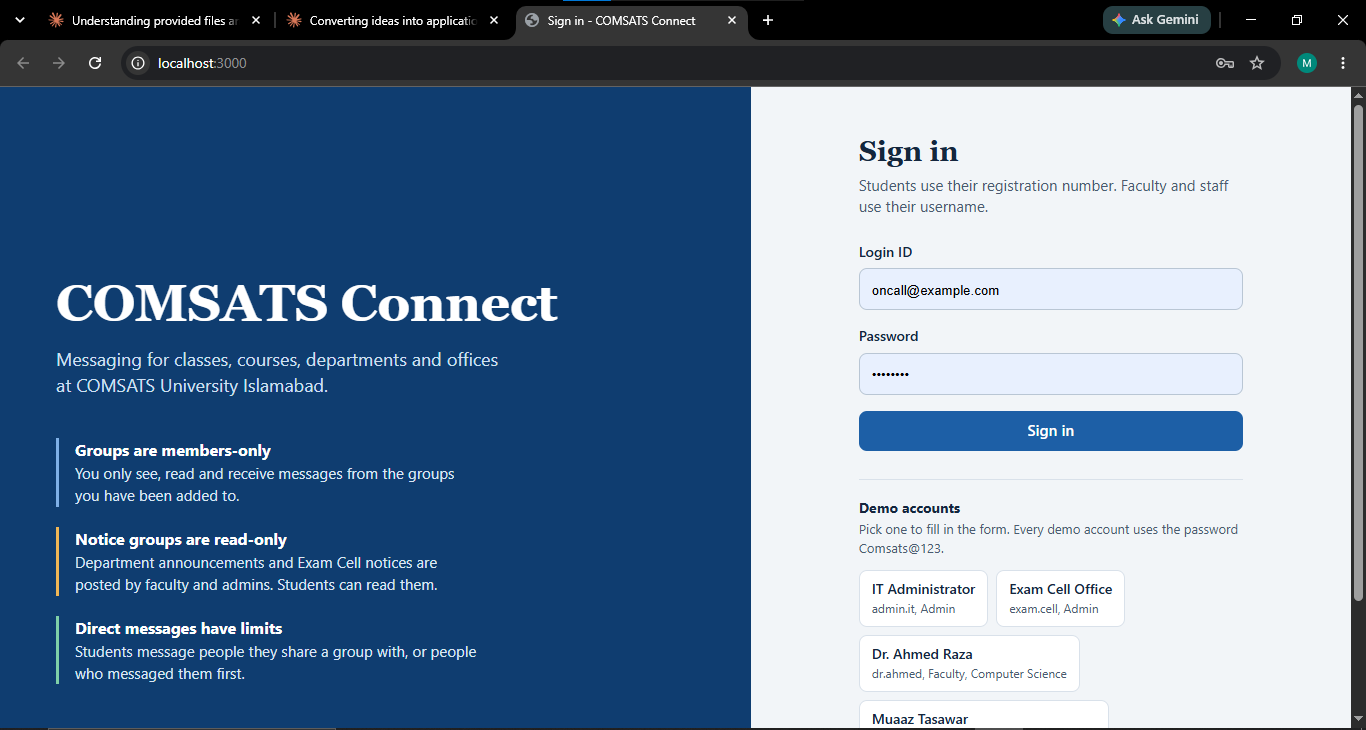
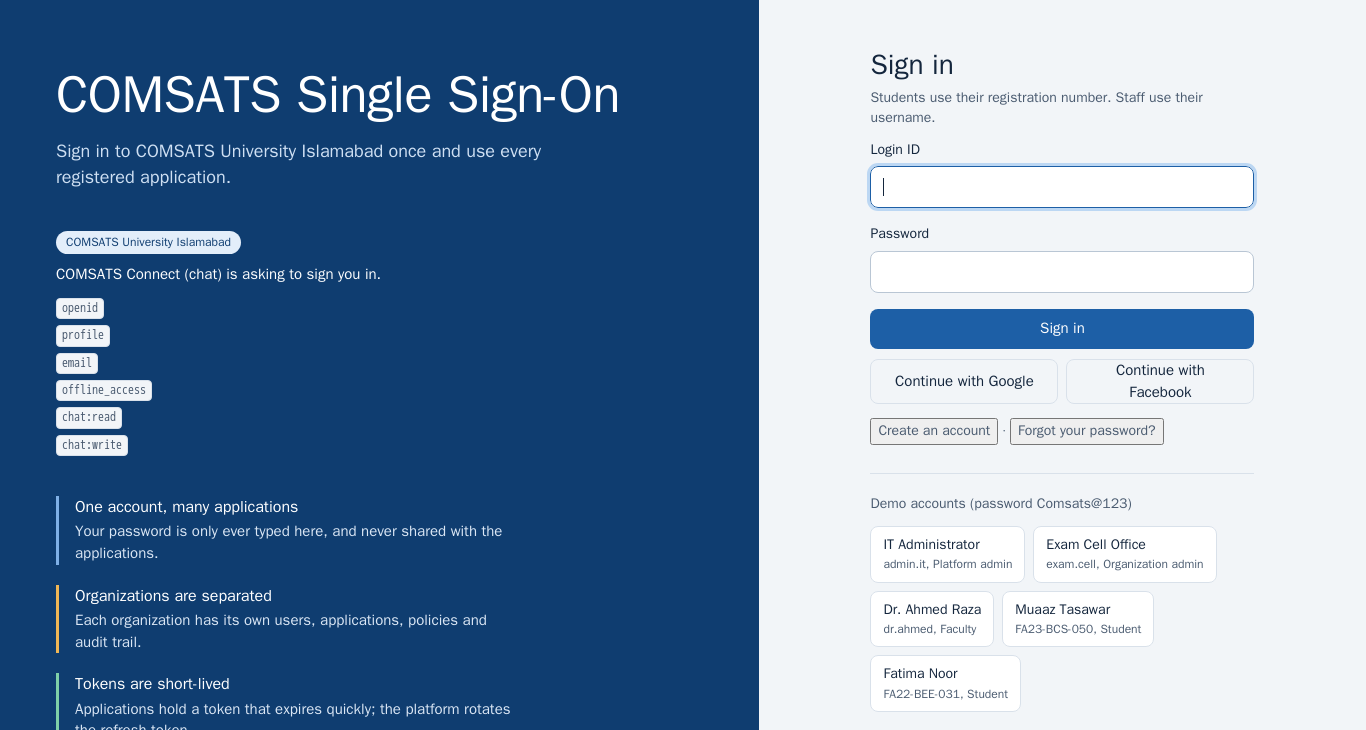
Update documentation and environment configuration

Changed region(s): [[0.0, 0.0, 1.0, 1.0], [0.6149, 0.3918, 0.9224, 0.6329]]

diff --git a/docs/SSO-SETUP.md b/docs/SSO-SETUP.md
@@ -143,8 +143,9 @@ are in `.env`. Nothing else in the project needs credentials.
 A deployment that runs from `docker-compose.base44.yml` does not read a `.env`
 file: the same four variables are stored as app secrets and delivered to the
 running server at `/run/base44/app.env`, which the `web` service mounts as its
-last `env_file` so a value set in the dashboard always wins (`JWT_SECRET` is
-handled the same way). Nothing is committed and no rebuild is needed — the
+last `env_file` so a value set in the dashboard always wins (no other secret is needed: the token-signing
+key pair is generated on first start and kept in `server/data/keys.json`).
+Nothing is committed and no rebuild is needed — the
 service is recreated when a credential changes.
 
 Register the redirect URI **this** deployment sends, not the localhost one.
@@ -209,3 +210,61 @@ examples of that flow (one for a browser SPA, one for a server-rendered app).
   provider before using this for real.
 * Serve it over HTTPS in any real deployment: set `PUBLIC_BASE_URL` to the
   `https://` address, which also marks the session cookies as `Secure`.
+
+## 7. Screenshots
+
+The images below come from the running platform with the seeded demo data; the
+README shows the same ones in its
+[Single sign-on platform](../README.md#4-single-sign-on-platform) section.
+Every demo account uses the password `Comsats@123`.
+
+### The landing page
+
+Either application is opened from here, and the page also lists the demo
+accounts and the platform endpoints.
+
+![SSO platform landing page](screenshots/sso-01-landing.png)
+
+### The central sign-in page
+
+An application sends the browser here, and the page names the application and
+the scopes it is asking for. Every demo account is one click.
+
+![Central sign-in page for the chat application](screenshots/sso-02-signin.png)
+
+### Second-factor enrollment
+
+The Lahore organization requires a second factor, so its users see the
+enrollment step: the shared secret, the `otpauth://` link for an authenticator
+application and, after confirming a code, their recovery codes.
+
+![Second-factor enrollment step](screenshots/sso-03-mfa.png)
+
+### The account page
+
+Profile, two-step verification, password change, linked sign-in providers and
+every active session.
+
+![The account page](screenshots/sso-04-account.png)
+
+### The admin console
+
+Users, organizations, applications and the audit log.
+
+![Admin console, users tab](screenshots/sso-05-admin-users.png)
+
+![Admin console, organizations tab](screenshots/sso-06-admin-organizations.png)
+
+![Admin console, applications tab](screenshots/sso-07-admin-applications.png)
+
+![Admin console, audit log tab](screenshots/sso-08-admin-audit.png)
+
+### The library portal (sample application 2)
+
+Reached through single sign-on: students see only their own loans, staff see the
+whole campus and can renew an item on a student's behalf.
+
+![Library portal](screenshots/sso-09-library.png)
+
+Sample application 1, the chat, has its own annotated screenshots in the
+[README](../README.md#3-screenshots).

diff --git a/AGENTS.md b/AGENTS.md
@@ -5,8 +5,13 @@
 A single Node.js process: Express REST API + Socket.IO, serving the static
 client from `public/` on the same origin. There is **no database server** —
 data is a JSON file at `server/data/db.json` (gitignored, created on first
-write). No external services or credentials are required; the only secret is
-`JWT_SECRET` for signing session tokens.
+write). No external services or credentials are required: the token-signing RSA
+key pair is generated on first start into `server/data/keys.json` (gitignored),
+and the Google/Facebook buttons stay disabled until their credentials exist.
+
+The same process is also the OAuth 2.0 / OpenID Connect **identity provider**,
+with two sample client applications (`/apps/chat/login`, `/apps/library/login`)
+and the chat behind sample application 1.
 
 ## Running it here (sandbox)
 
@@ -74,7 +79,17 @@ followed by `docker compose -f docker-compose.base44.yml restart web`
   would otherwise restart the server on every message.
 - `server/data/db.json` lives in the bind mount, so seeded demo data and any
   records created in the preview survive restarts — and are never committed.
-- `JWT_SECRET` is delivered by the platform at `/run/base44/app.env`; when it
-  is missing the app prints a warning and uses a built-in development secret.
+- The three bundled applications get their callback URLs re-pointed at the
+  current `PUBLIC_BASE_URL` on every start (`server/services/clientAppSync.js`),
+  so a rotated preview host does not break their sign-in with `BAD_REDIRECT_URI`.
+- Documentation screenshots live in `docs/screenshots/` and are referenced by
+  `README.md` and `docs/SSO-SETUP.md`. They are captured from the running app
+  with headless Chromium on the compose network, e.g.
+  `docker run --rm --entrypoint node --network comsats-connect_default
+  -v /tmp/sc:/tmp/sc -e NODE_PATH=/usr/src/app/node_modules
+  -e SHOT_BASE=http://web:3000 zenika/alpine-chrome:with-puppeteer
+  /tmp/sc/login-shot.js`. Keep a one-off capture script in `/tmp`, never in the
+  repo; a capture that signs in writes sessions and audit rows into the store,
+  so re-seed afterwards.
 - The app is same-origin only: no CORS or host/origin allowlist configuration
   is needed behind the preview proxy.
